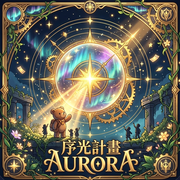
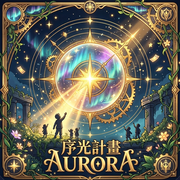
App 圖示換成新版 Aurora 圖
Claude-Session: https://claude.ai/code/session_014BhPeNrpvZrWQU4v9wXcG7

Changed region(s): [[0.1667, 0.5833, 0.4167, 0.8611], [0.1389, 0.7222, 0.1667, 0.75]]

diff --git a/index.html b/index.html
@@ -12,10 +12,10 @@
 
   <title>序光計畫</title>
 
-  <link rel="manifest" href="manifest.webmanifest?v=2">
+  <link rel="manifest" href="manifest.webmanifest?v=3">
   <meta name="theme-color" content="#1d2547">
-  <link rel="apple-touch-icon" href="img/app/apple-touch-icon.png?v=2">
-  <link rel="icon" type="image/png" sizes="192x192" href="img/app/icon-192.png?v=2">
+  <link rel="apple-touch-icon" href="img/app/apple-touch-icon.png?v=3">
+  <link rel="icon" type="image/png" sizes="192x192" href="img/app/icon-192.png?v=3">
   <meta name="apple-mobile-web-app-capable" content="yes">
   <meta name="mobile-web-app-capable" content="yes">
   <meta name="apple-mobile-web-app-title" content="序光計畫">
